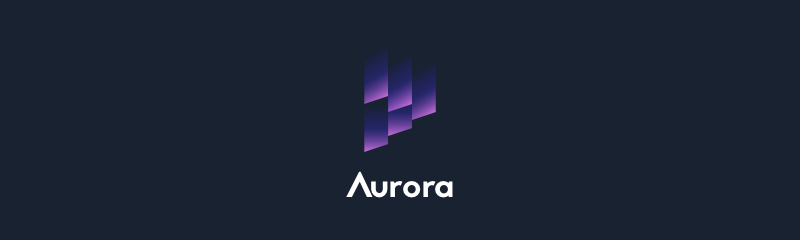
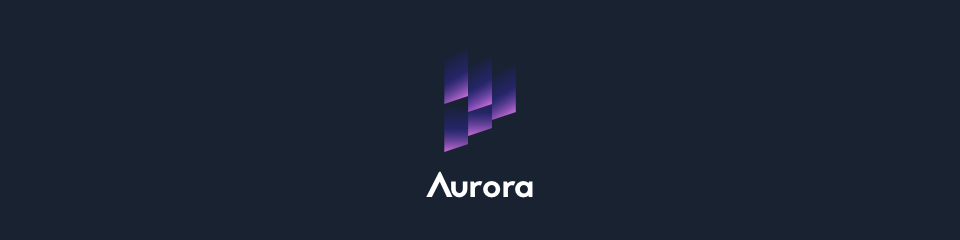
Updated README.md

Changed region(s): [[0.4375, 0.2625, 0.5625, 0.4958], [0.4375, 0.7, 0.5938, 0.8458], [0.4375, 0.4667, 0.5, 0.6417]]

diff --git a/README.md b/README.md
@@ -1,5 +1,5 @@
 <p>
-	<img src="https://github.com/ianpaschal/aurora/raw/master/header.png" />
+	<img style="width:100%;" src="https://github.com/ianpaschal/aurora/raw/master/header.png" />
 </p>
 <p>
 	<a href="https://www.npmjs.com/package/aurora">
@@ -16,6 +16,9 @@
 	</a>
 	<a href="https://codeclimate.com/github/ianpaschal/aurora">
 		<img src="https://img.shields.io/codeclimate/maintainability/ianpaschal/aurora.svg?" />
+	</a>
+	<a href="https://codeclimate.com/github/ianpaschal/aurora">
+		<img src="https://img.shields.io/travis/ianpaschal/aurora.svg?" />
 	</a>
 </p>
 
